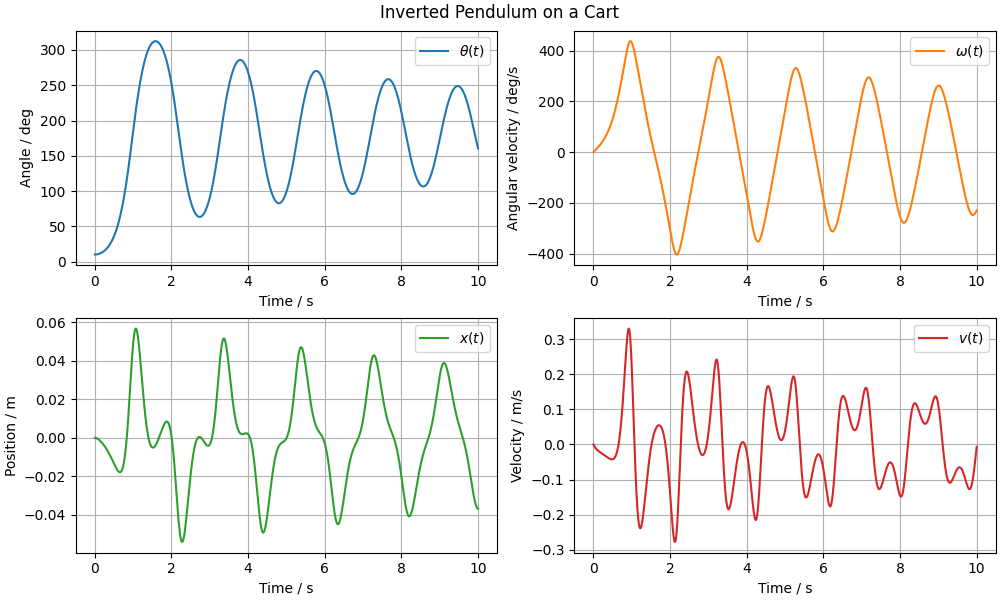
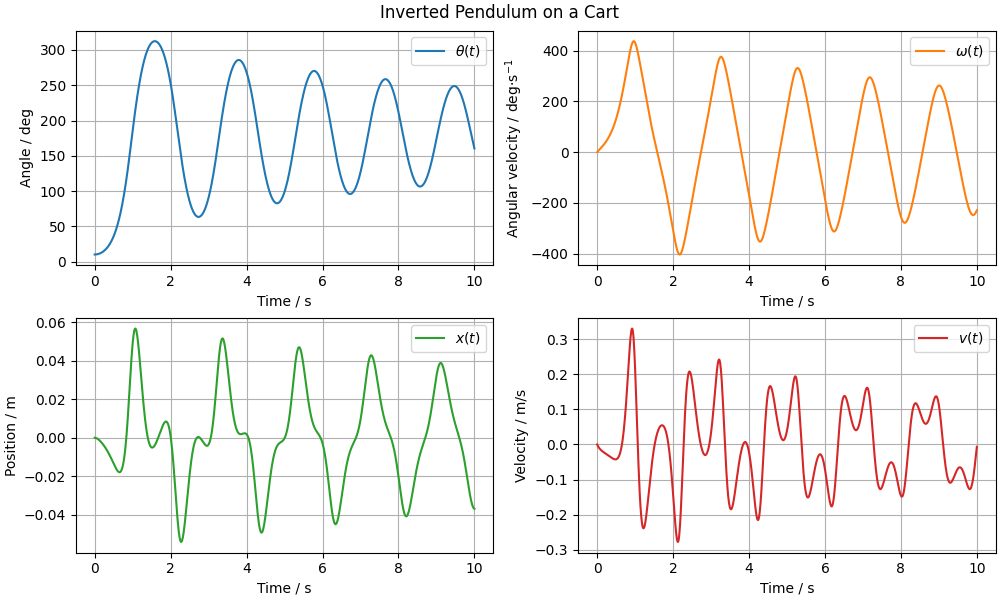
Add documentation for solving systems with implicit derivatives

diff --git a/models/mechanical/inverted-pendulum/sim_scipy.py b/models/mechanical/inverted-pendulum/sim_scipy.py
@@ -38,26 +38,32 @@ def mechanical_model(t: float, y: np.ndarray, F: float):
 
     theta = y[0]  # Pendulum angle [rad]
     omega = y[1]  # Angular velocity [rad/s]
-    x = y[2]  # Cart position [m]
+    # x = y[2]  # Cart position [m]
     v = y[3]  # Cart velocity [m/s]
 
-    dtheta_dt = omega
-    dx_dt = v
-
-    M = np.array(
+    # A Matrix (system coefficients)
+    A = np.array(
         [
-            [m_p * L**2 + J, m_p * L * np.cos(theta)],
-            [m_p * L * np.cos(theta), m_c + m_p],
+            [1, 0, 0, 0],
+            [0, m_p * L**2 + J, 0, m_p * L * np.cos(theta)],
+            [0, 0, 1, 0],
+            [0, m_p * L * np.cos(theta), 0, m_c + m_p],
         ]
     )
 
-    rhs = np.array(
-        [m_p * g * L * np.sin(theta), F - b * v + m_p * L * omega**2 * np.sin(theta)]
+    # b vector (right-hand side)
+    b_rhs = np.array(
+        [
+            omega,
+            m_p * g * L * np.sin(theta),
+            v,
+            F - b * v + m_p * L * omega**2 * np.sin(theta),
+        ]
     )
 
-    domega_dt, dv_dt = np.linalg.solve(M, rhs)
-
-    return [dtheta_dt, domega_dt, dx_dt, dv_dt]
+    # Solve the linear system A * [dtheta_dt, domega_dt, dx_dt, dv_dt]^T = b
+    dydt = np.linalg.solve(A, b_rhs)
+    return dydt
 
 
 # --- Model Input ---
@@ -99,31 +105,25 @@ fig.suptitle("Inverted Pendulum on a Cart")
 
 # Pendulum angle
 axs[0, 0].plot(sol.t, theta_deg, label="$\\theta(t)$", color="tab:blue")
-axs[0, 0].set_xlabel("Time / s")
 axs[0, 0].set_ylabel("Angle / deg")
-axs[0, 0].grid(True)
-axs[0, 0].legend()
 
 # Pendulum angular velocity
 axs[0, 1].plot(sol.t, omega_deg, label="$\\omega(t)$", color="tab:orange")
-axs[0, 1].set_xlabel("Time / s")
-axs[0, 1].set_ylabel("Angular velocity / deg/s")
-axs[0, 1].grid(True)
-axs[0, 1].legend()
+axs[0, 1].set_ylabel("Angular velocity / deg$\\cdot$s$^{-1}$")
 
 # Cart position
 axs[1, 0].plot(sol.t, x, label="$x(t)$", color="tab:green")
-axs[1, 0].set_xlabel("Time / s")
 axs[1, 0].set_ylabel("Position / m")
-axs[1, 0].grid(True)
-axs[1, 0].legend()
 
 # Cart velocity
 axs[1, 1].plot(sol.t, v, label="$v(t)$", color="tab:red")
-axs[1, 1].set_xlabel("Time / s")
 axs[1, 1].set_ylabel("Velocity / m/s")
-axs[1, 1].grid(True)
-axs[1, 1].legend()
+
+# Enable grid, legend, and set x-label for all subplots
+for ax in axs.flat:
+    ax.set_xlabel("Time / s")
+    ax.grid(True)
+    ax.legend()
 
 # Save plot to file
 script_dir = os.path.dirname(os.path.abspath(__file__))

diff --git a/docs/implicit-derivatives.md b/docs/implicit-derivatives.md
@@ -1,0 +1,45 @@
+# Solving Systems with Implicit Derivatives
+
+Some differential equation systems contain derivatives that cannot be easily expressed explicitly as functions of the state variables.
+In other words, it can be difficult to isolate certain derivatives manually, which can be a challenge to simulate because most numerical solvers require the system to be written in explicit first-order form.
+
+In such cases, it is often necessary to solve the system **numerically** using an algebraic equation solver at each time step.
+
+There are various types of algebraic solvers available, depending on the programming language and the type of equations (linear, nonlinear, sparse, dense, etc.). For example, in Python, popular libraries provide solvers like `numpy.linalg.solve` for linear systems and `scipy.optimize.fsolve` for nonlinear systems.
+
+An alternative approach is to use numerical solvers that **support implicit differential equations directly**. These solvers can handle systems where derivatives are not easily isolated, solving the algebraic constraints internally at each integration step.
+
+## Linear Systems
+
+If the algebraic equations for the derivatives are linear, it is often more convenient to rewrite the system in **matrix form**.
+This allows numerical solvers to compute the derivatives efficiently and consistently.
+
+For example:
+
+$$
+\begin{cases}
+a_{11} \dot{y}_1 + a_{12} \dot{y}_2 = b_1 \\
+a_{21} \dot{y}_1 + a_{22} \dot{y}_2 = b_2
+\end{cases}
+$$
+
+Here:
+
+- $\dot{y}_1$ and $\dot{y}_2$ are the derivatives we want to compute.
+- $a_{ij}$ are constants (or functions of the state variables).
+- $b_1$, $b_2$ are known terms (inputs or functions of the state).
+
+To write the system in **matrix form**, we need to express all derivatives and coefficients as vectors and matrices.
+The default format for a linear algebraic system is:
+
+$$
+\mathbf{A} \cdot \mathbf{\dot{y}} = \mathbf{b},
+$$
+
+In our example, this becomes:
+
+$$
+\mathbf{A} = \begin{bmatrix} a_{11} & a_{12} \\ a_{21} & a_{22} \end{bmatrix}, \quad
+\mathbf{\dot{y}} = \begin{bmatrix} \dot{y}_1 \\ \dot{y}_2 \end{bmatrix}, \quad
+\mathbf{b} = \begin{bmatrix} b_1 \\ b_2 \end{bmatrix}
+$$

diff --git a/models/mechanical/inverted-pendulum/README.md b/models/mechanical/inverted-pendulum/README.md
@@ -34,6 +34,10 @@ Where:
 > Most numerical solvers require the system to be expressed as first-order equations.
 > For details on how to do this, see [Reducing Higher-Order ODEs](/docs/ode-reduction.md).
 
+> Note: In this system, some or all derivatives are not easily separable as explicit functions of the state variables.
+> This can be a challenge for numerical solvers that require derivatives to be explicitly defined.
+> For a detailed discussion and recommended solution approaches, see [Solving Systems with Implicit Derivatives](/docs/implicit-derivatives.md).
+
 ## Model Classification
 
 | Property                                 | Classification      |
